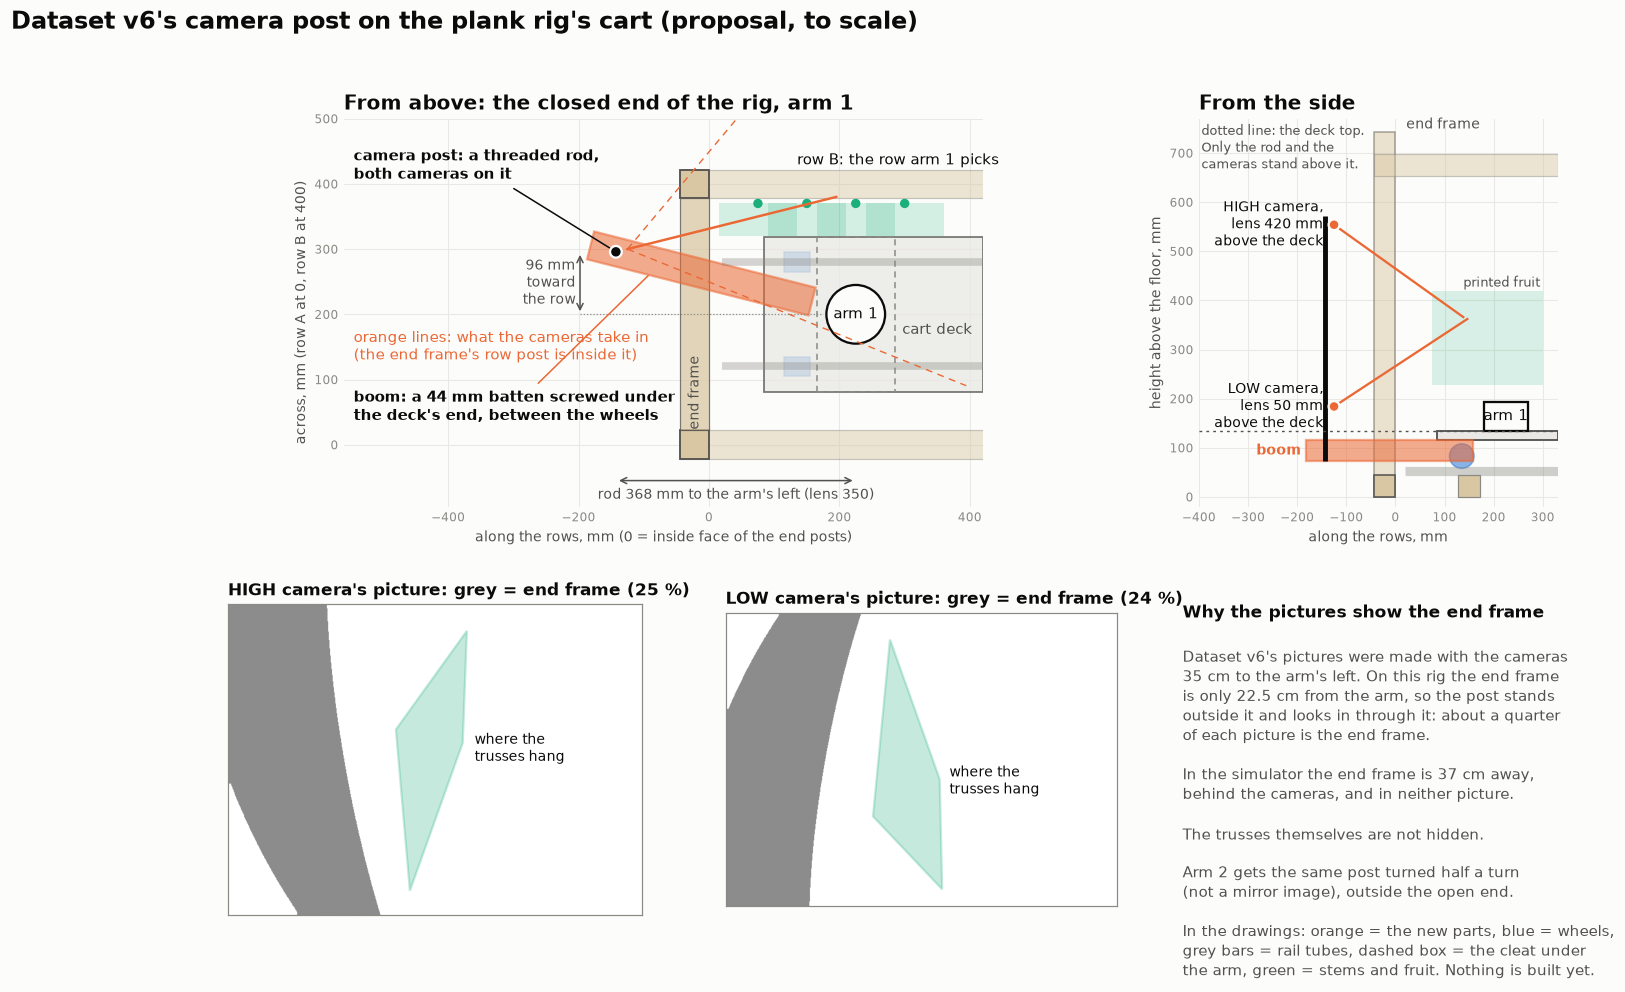
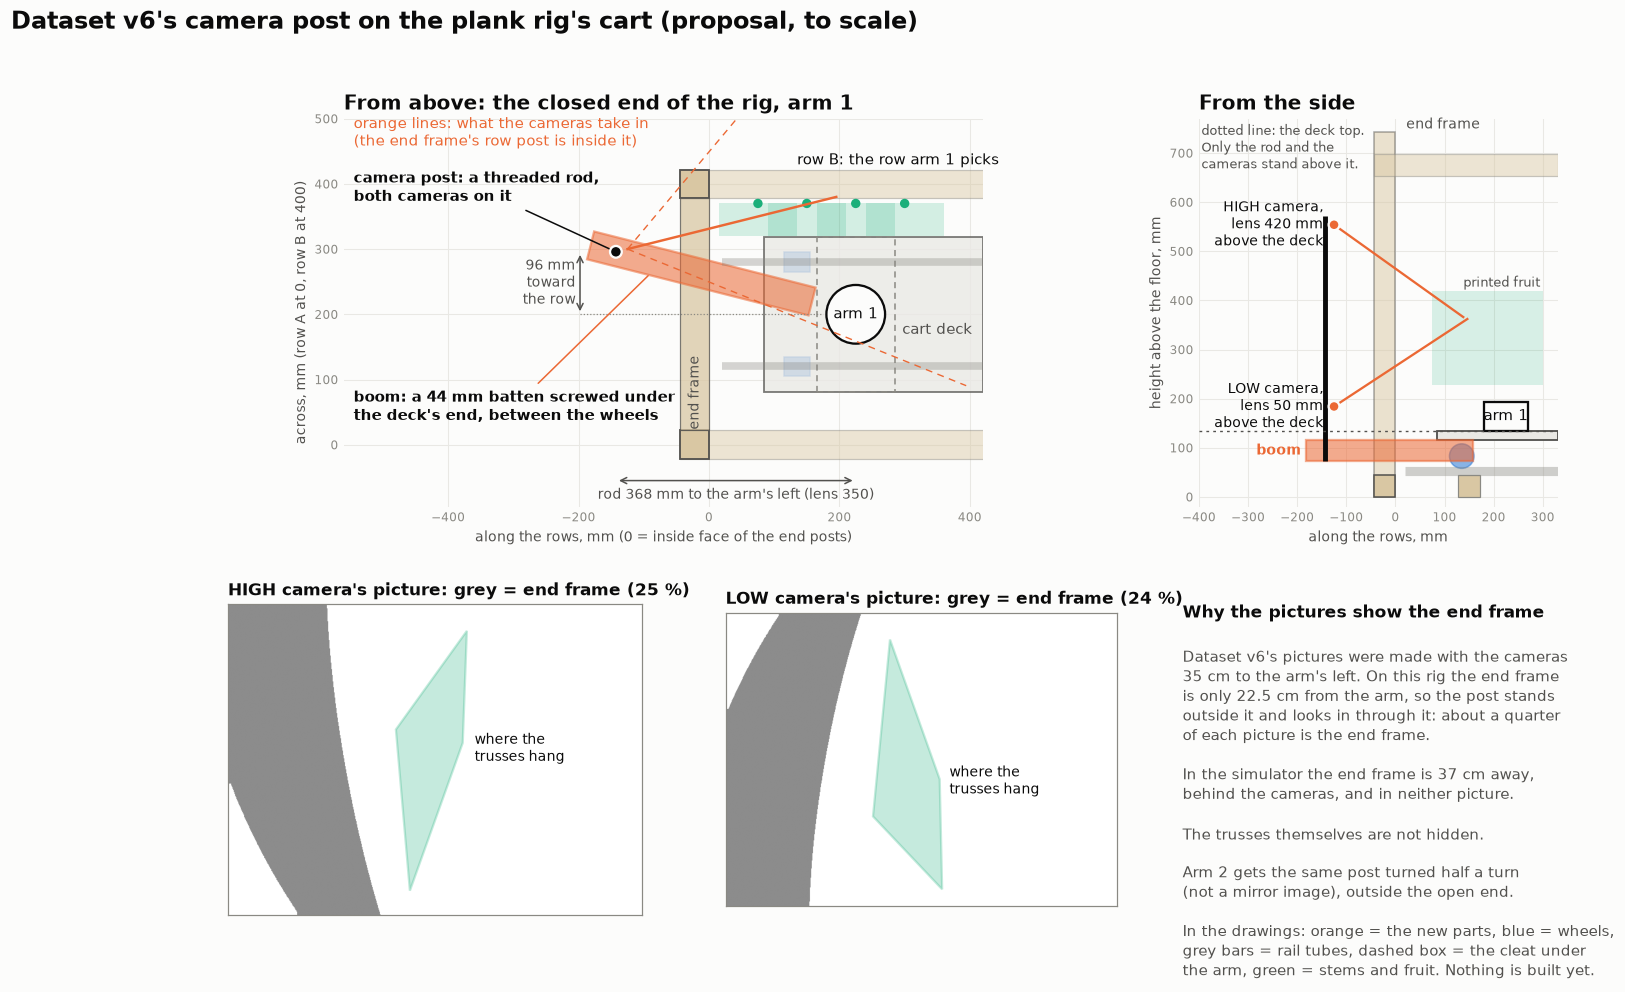
camera post README: say exactly what the recorded episodes showed, the boom's short hold under the deck (75 mm), and that the two arms' crates overlap on this cart (computed in cart_camera_post.py)

Changed region(s): [[0.2154, 0.125, 0.4, 0.2188], [0.2154, 0.3125, 0.4, 0.375], [0.3385, 0.2188, 0.3692, 0.25]]

diff --git a/hardware/greenhouse/pipe_rail_rig/cart_camera_post.py b/hardware/greenhouse/pipe_rail_rig/cart_camera_post.py
@@ -238,6 +238,20 @@ def main(out):
             + (" ⚠ and one is behind the frame" if hit else ", clear of it"))
     say("⚠ In the simulator the end frame stands 370 mm from the arm, behind this post, and is in neither picture.")
 
+    # ---------------- noticed on the way: the crate ----------------
+    import truss_scene as ts                                    # read only: the dataset's crate (world "crate23")
+    (cx, cy), (sx, sy, _) = ts.WORLDS["crate23"]
+    lo = np.array([cx - sx / 2, cy - sy / 2]) - np.asarray(scene.ARM_BASE[:2])
+    hi = np.array([cx + sx / 2, cy + sy / 2]) - np.asarray(scene.ARM_BASE[:2])
+    c1 = np.sort([sim_to_rig((*lo, 0), 0)[:2], sim_to_rig((*hi, 0), 0)[:2]], axis=0)
+    c2 = np.sort([sim_to_rig((*lo, 0), 1)[:2], sim_to_rig((*hi, 0), 1)[:2]], axis=0)
+    over = np.minimum(c1[1], c2[1]) - np.maximum(c1[0], c2[0])
+    box = lambda c: f"x {c[0][0]:.0f}-{c[1][0]:.0f}, y {c[0][1]:.0f}-{c[1][1]:.0f}"      # noqa: E731
+    say(f"the dataset's crate lies {lo[0] * 1000:.0f} to {hi[0] * 1000:.0f} mm to the arm's right. On this cart: "
+        f"arm 1's at {box(c1)}; arm 2's at {box(c2)}: they overlap by {over[0]:.0f} mm along the cart and "
+        f"{over[1]:.0f} mm across; the deck is y {DECK_Y[0]:.0f}-{DECK_Y[1]:.0f}, so each reaches "
+        f"{DECK_Y[0] - c1[0][1]:.0f} mm past its edge. ⚠ No crate is drawn on the rig.")
+
     # ---------------- the sketch ----------------
     ink, ink2, muted, surf = "#0b0b0b", "#52514e", "#8a8983", "#fcfcfb"
     orange, blue, aqua, wood = "#eb6834", "#2a78d6", "#1baf7a", "#d9c7a3"
@@ -289,7 +303,7 @@ def main(out):
         top.plot([lens_xy[0], lens_xy[0] + 560 * d[0]], [lens_xy[1], lens_xy[1] + 560 * d[1]], color=orange, lw=0.9,
                  ls=(0, (5, 4)))
     top.plot([lens_xy[0], lens_xy[0] + 330 * fdir[0]], [lens_xy[1], lens_xy[1] + 330 * fdir[1]], color=orange, lw=1.6)
-    top.annotate("camera post: a threaded rod,\nboth cameras on it", r, xytext=(-545, 400), color=ink, fontsize=10,
+    top.annotate("camera post: a threaded rod,\nboth cameras on it", r, xytext=(-545, 366), color=ink, fontsize=10,
                  fontweight="bold", va="bottom", arrowprops=dict(arrowstyle="-", color=ink, lw=1))
     top.annotate("boom: a 44 mm batten screwed under\nthe deck's end, between the wheels", (-90, yc(-90) - 20),
                  xytext=(-545, 30), color=ink, fontsize=10, fontweight="bold", va="bottom",
@@ -301,7 +315,7 @@ def main(out):
     top.text(r[0] - 62, (AISLE + r[1]) / 2, f"{r[1] - AISLE:.0f} mm\ntoward\nthe row", color=ink2, fontsize=9,
              ha="right", va="center")
     top.plot([r[0] - 55, ARM_X[0] - 50], [AISLE, AISLE], color=muted, lw=0.8, ls=":")
-    top.text(-545, 150, "orange lines: what the cameras take in\n(the end frame's row post is inside it)",
+    top.text(-545, 478, "orange lines: what the cameras take in\n(the end frame's row post is inside it)",
              color=orange, fontsize=9.5, ha="left", va="center")
 
     # from the side

diff --git a/hardware/greenhouse/pipe_rail_rig/README.md b/hardware/greenhouse/pipe_rail_rig/README.md
@@ -27,6 +27,9 @@ These are design choices, not yet checked for sim2real:
 - The stems sit 30 mm off the row line.
 - ⚠ With the end frames 225 mm from the arm, dataset v6's camera post stands outside them and looks in through
   them (see "Camera post for dataset v6").
+- ⚠ No crate is drawn on the cart. In the dataset the crate lies 13 to 36 cm to the arm's right, which here is
+  between the two arms: placed like that, the two arms' crates overlap by 185 mm along the cart, and each reaches
+  51 mm past the deck's edge (`cart_camera_post.py` prints the numbers).
 
 ## Camera post for dataset v6 (rig `trio`): a proposal, not built
 
@@ -46,8 +49,10 @@ the deck top):
 | low | 350 mm | 100 mm | 50 mm | 12.3° | 32.7° up |
 
 By ruler from the pan axis (the upright axis the whole arm turns about): 350 mm to the left, 61 mm toward the row.
-The simulator's post is a 16 mm rod standing 18 mm behind the lenses; the arm and the carried truss were checked
-against that rod in all 800 recorded episodes, so the real upright must not be thicker than it.
+The simulator's post is a 16 mm rod standing 18 mm behind the lenses. In dataset v5's 800 recorded episodes the arm
+came no nearer than 44 mm to the line under the lens and a carried truss no nearer than 17 mm; with that rod and the
+camera housings in the model, nothing touched them in the 32 episodes that came within 6 cm
+(`own_sim_measurements.md` section 26). So the real upright must not be thicker than 16 mm or stand nearer the arm.
 
 **On this rig** that puts the rod at x −143, y 296 for arm 1 (the lenses at x −125, y 300, z 184 and 554): 143 mm
 outside the closed end frame's inside face. Arm 2 is arm 1 turned half a turn, so its post is the same assembly
@@ -58,12 +63,15 @@ turned half a turn about the middle of the house: x 1043, y 104, outside the ope
 - **Boom**: one more 350 mm length of the 44 x 44 batten per arm, screwed under the deck's end with its top against
   the deck's underside. It lies between the wheel brackets, turned 14° from the aisle line, and reaches 267 mm past
   the deck's end. Three screws from above through deck strip D-2, heads flush, shorter than the 62 mm stack.
+  ⚠ Only 75 mm of it lies under the deck, because the cleat under the arm is in the way: the three screws sit
+  close together, and a knock on the rod levers on them. Notching the boom over the cleat would give it more hold.
 - **Upright**: an M12 threaded rod, 500 mm (one 1 m rod cut in half does both arms), through the boom's outer end.
   One nut and washer on top of the boom, one sunk into its underside so nothing hangs below it.
 - **Cameras**: each on a clamp between two nuts, so the height is set by turning nuts. No clamp is drawn yet; a
   printed one takes a 12.6 mm hole (0.3 mm per side).
-- ⚠ Everything except the rod and the two cameras stays at or below the deck top: the arm folds out over that
-  corner of the deck, low, on its way to a truss.
+- ⚠ Everything except the rod and the two cameras stays at or below the deck top (the simulator's table is at
+  that height, so nothing in the dataset ever goes below it). Above it the arm swings out to that side: every
+  camera spot nearer the arm was in its way in the recorded episodes.
 - With both posts on, the cart sticks out about 14 cm past each end of the house; the booms unscrew for transport.
 - If the two birdseye masts are left out (dataset v6 does not use that camera), their poles B4-5 and B4-6 are long
   enough for the two booms. Check first whether another module still needs the birdseye camera.
